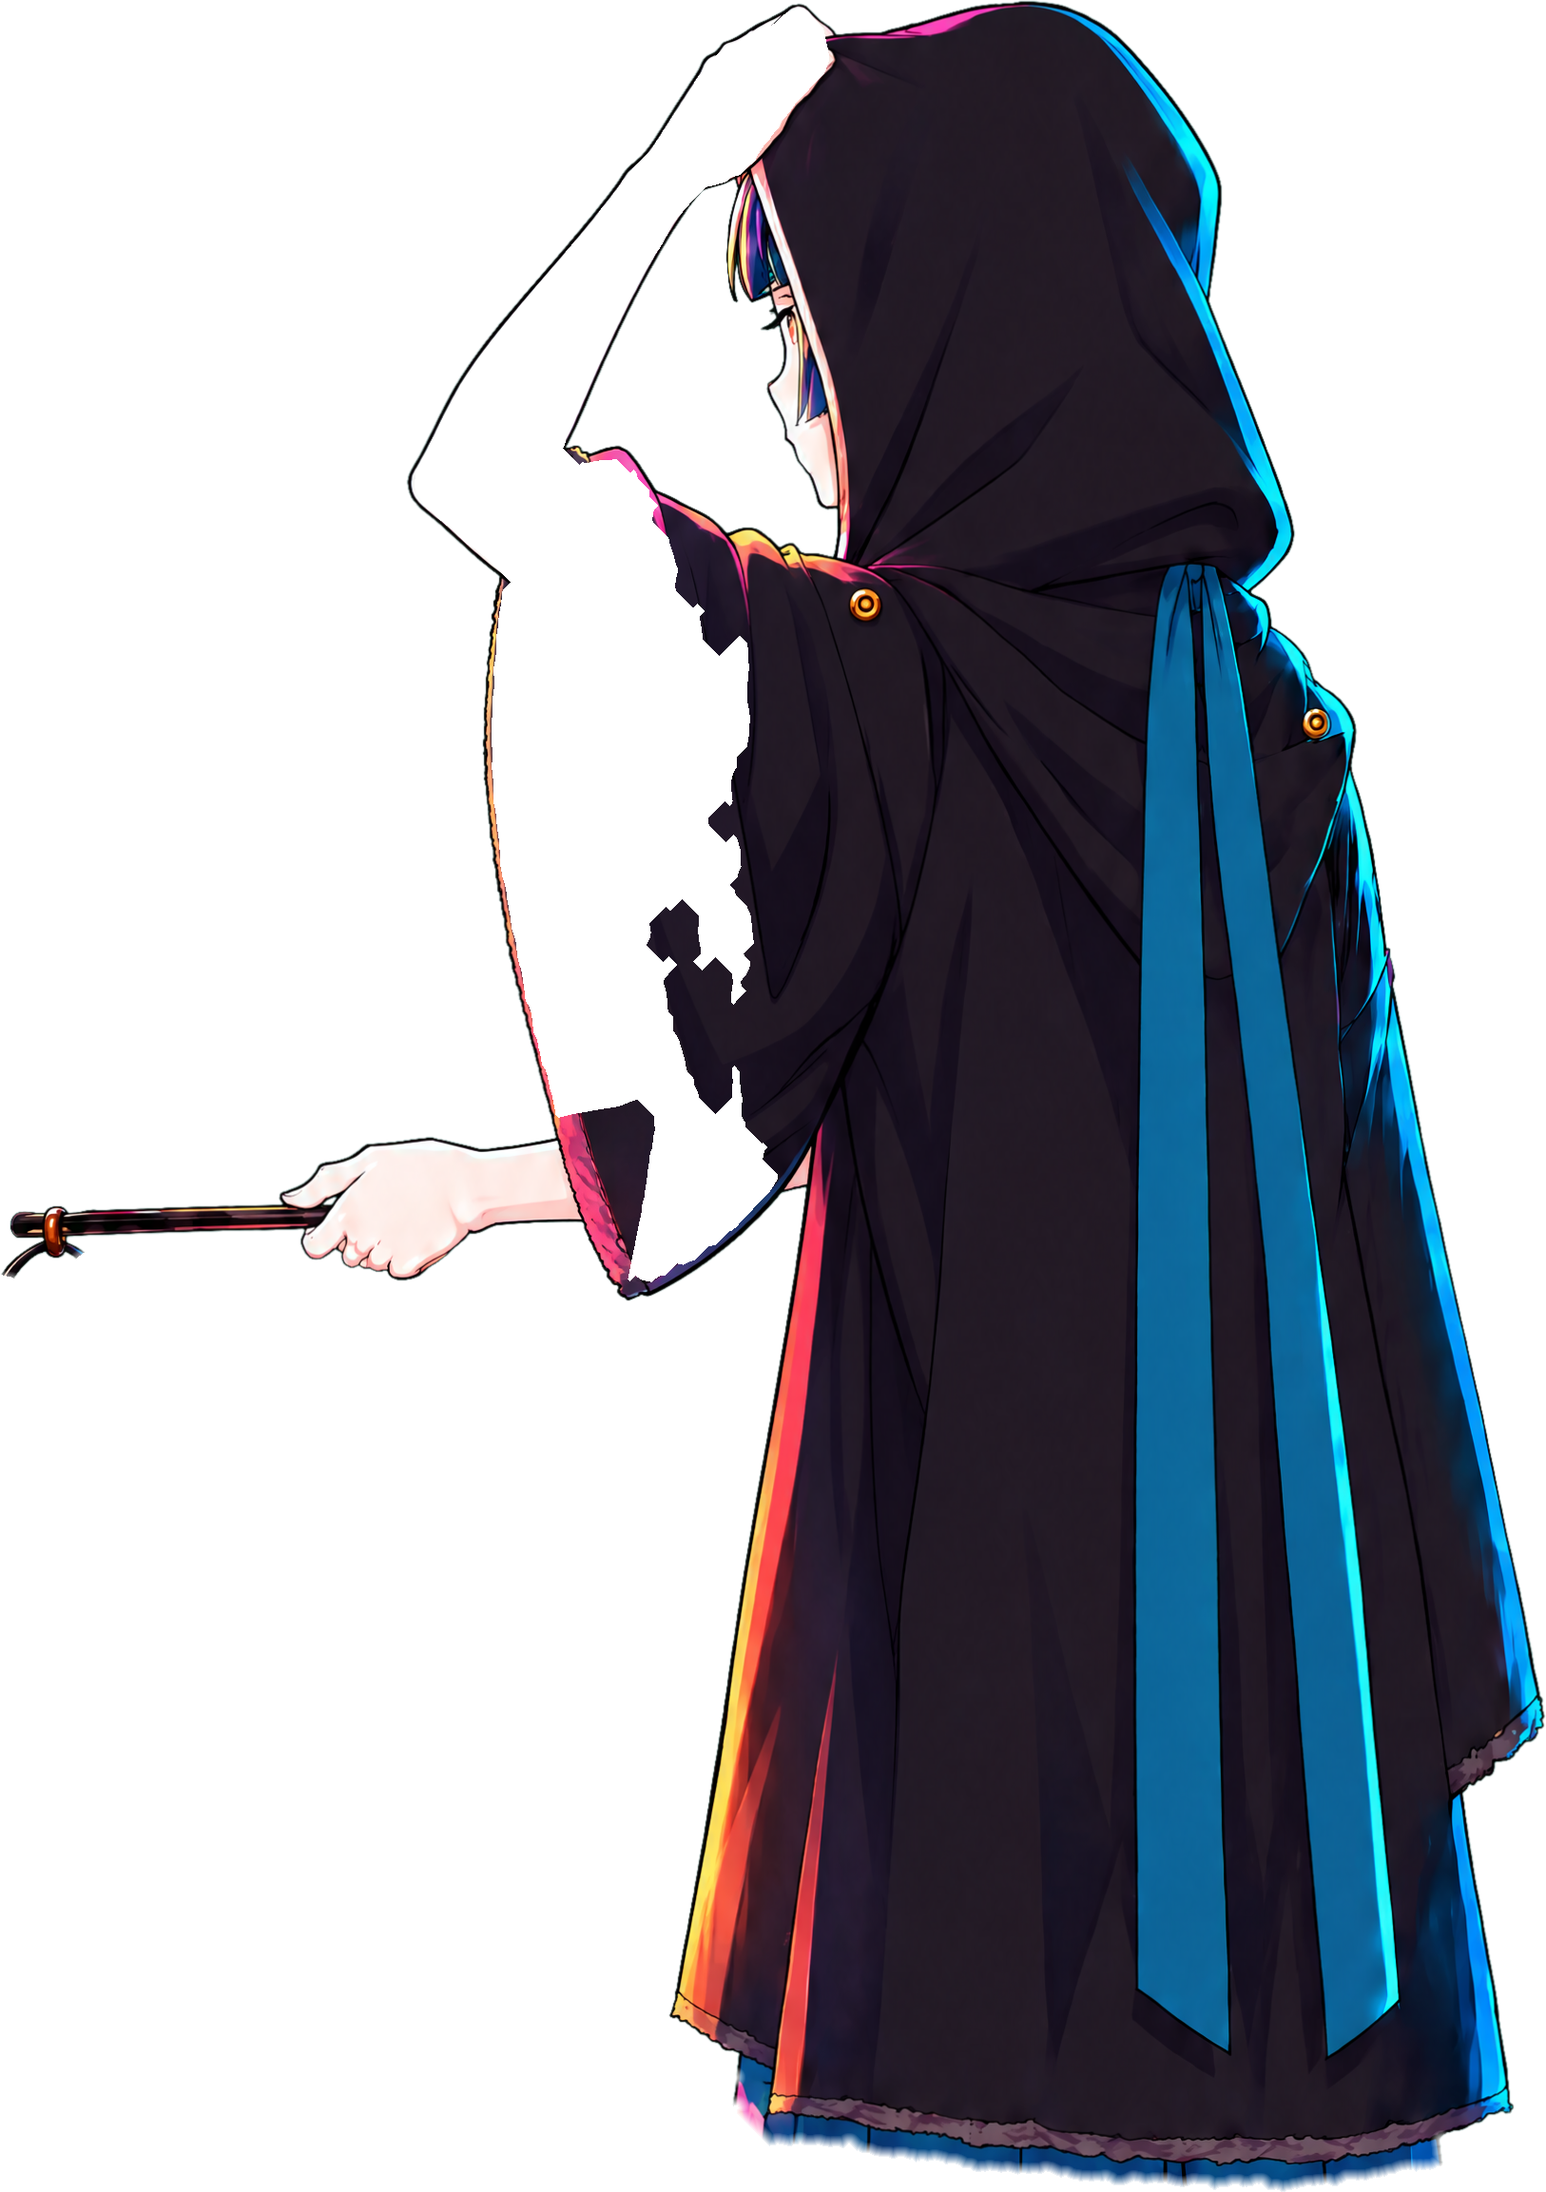
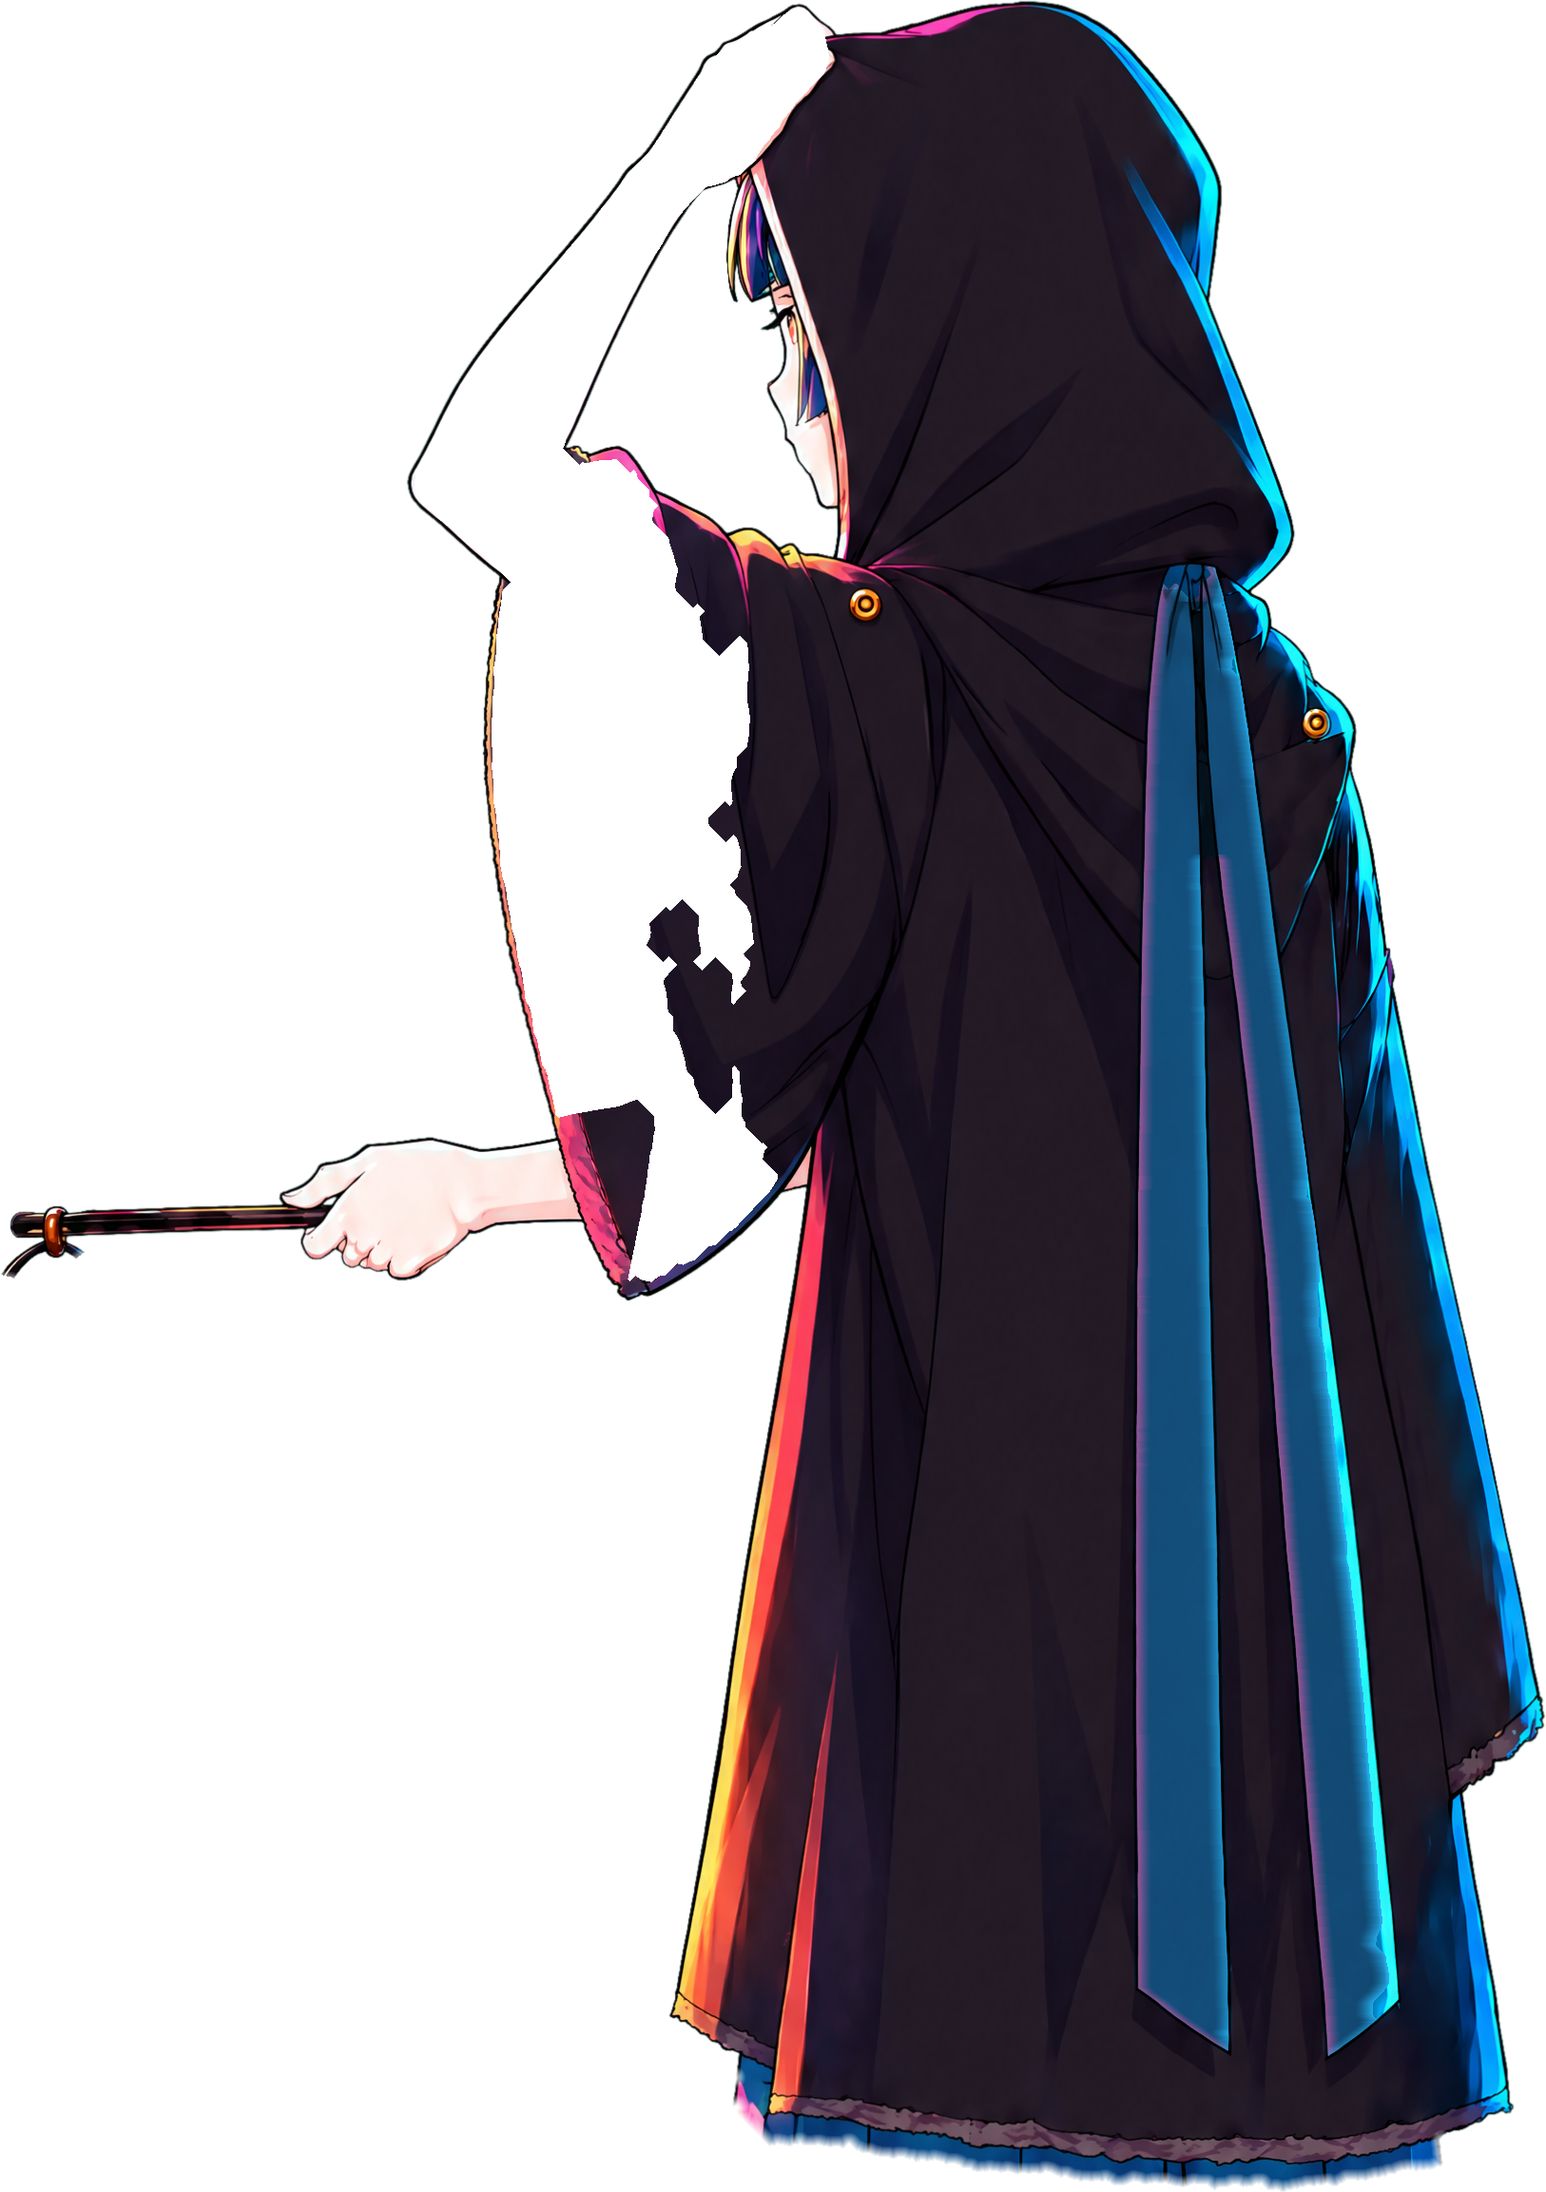
Fable's room ending, Fable's two fixes: the hit's face turned to us, the ribbon in Ai
- The hit (Fable: "the one face the finale is for"): on the raise the head turns ~15 degrees toward us, as at the push, so the open
  smile and the bright, open eye are seen past the cheek: two drawings, the half turn with the smile opening (198.917) and the full
  turn with the open smile arriving with the lantern on the dash (199.0), held through the freeze; the half turn on the lowering's
  first drawing (200.583), then back to the window with the smile. Two new views (turn_hit, turn_half_hit): the push's turned-head
  drawings with the hit's face pasted in (one GPT Image edit each, registered; build.py hitface).
- The ribbon (Fable: it read as Clawd's cyan): recoloured to Ai, the hakama's indigo a touch deeper, its own shading and line kept
  (every pixel from its luminance), highlights capped below cyan; a pink rim on its left edge (the window's light) and cyan only on
  its right, like the sleeves' rim lights. In the build's ribbon layers, the hood-up view's ribbon and every flattened view
  (build.py ribbon_ai; marked so a rerun never recolours twice). The rest pose differs from the drawing only on the ribbon.
- A fragment of hair SAM gave the second tail (it swung off with the ribbon) goes back to the hair (layers.json).

Changed region(s): [[0.738, 0.2498, 0.8918, 0.9367]]

diff --git a/projects/tsuzuku/src/fableroom.js b/projects/tsuzuku/src/fableroom.js
@@ -236,6 +236,13 @@ const FABLEROOM = (() => {
     if (k < KP + 6) return 'push2';                                  // the hood pulled back, the hair out, the head turning
     if (k < KP + 8) return 'turn';                                   // hood down (188.17), the profile found, the dry half-smile
     if (k < KP + 10) return 'turn_half';                             // back toward the window
+    // the hit (Fable: 'the one face the finale is for'): the head turns ~15 degrees toward us again, two drawings, arriving with the
+    // lantern on the dash, so the open smile and the bright eye are seen past the cheek; held through the freeze; back to the
+    // window on the lowering (the half turn on its first drawing, then the base head with the smile)
+    const kh = sl(EK.hit), kl = sl(EK.lower);
+    if (k === kh - 1) return 'turn_half_hit';
+    if (k >= kh && k < kl) return 'turn_hit';
+    if (k === kl) return 'turn_half_hit';
     return null;
   }
   const clapK = CLAPS.flat().map(sl);                                // (a pat lands on the drawing that holds its time)
@@ -357,6 +364,9 @@ const FABLEROOM = (() => {
   LOOPS.fableroom_end.len = 203;
   LOOPS.fableroom_end_wide = t => { endBg(); label(t, ending(X, Math.max(177.8, t), { x: 1100, y: 1030, s: .8 })); };
   LOOPS.fableroom_end_wide.len = 203;
+  LOOPS.fableroom_end_id = t => { X.setTransform(1, 0, 0, 1, 0, 0); X.fillStyle = '#000'; X.fillRect(0, 0, W, H); window.RIG_IDPASS = true;
+    try { ending(X, Math.max(177.8, t), FIN, { figureOnly: true }); } finally { window.RIG_IDPASS = false; } };   // (debug: the ID pass)
+  LOOPS.fableroom_end_id.len = 203;
   LOOPS.fableroom_end_why = t => { endBg(); label(t, ending(X, Math.max(177.8, t), { x: 1768, y: 1649, s: 1.275 })); };   // (the 'why' two-shot's T)
   LOOPS.fableroom_end_why.len = 203;
   LOOPS.fableroom_end_key = t => { X.setTransform(1, 0, 0, 1, 0, 0); X.fillStyle = '#00ff00'; X.fillRect(0, 0, W, H); ending(X, Math.max(177.8, t), { x: 1100, y: 1030, s: .8 }, { figureOnly: true }); };

diff --git a/projects/tsuzuku/rig/fable_3q/build.py b/projects/tsuzuku/rig/fable_3q/build.py
@@ -143,7 +143,7 @@ def views(names):
             arm = np.array(Image.open(P('under', 'seg_' + {'push1': 'pushA', 'push2': 'pushB'}[name], 'arm.png'))) > 127   # the raised arm
             zone = va & (ndi.binary_dilation(upper, iterations=30) | (yy < 2600)) & ~lantern & ~ndi.binary_erosion(arm, iterations=3)   # (under the arm's edge: no crack)
             export(name, [('upper', cut(zone))], fig & ~upper)
-        elif name in ('turn', 'turn_half'):              # the head, the hair and ribbon, the hood and neck; the base's arms and jacket stay
+        elif name in ('turn', 'turn_half', 'turn_hit', 'turn_half_hit'):              # the head, the hair and ribbon, the hood and neck; the base's arms and jacket stay
             head = np.zeros(fig.shape, bool)
             for n in HEADS + ['neck', 'hood', 'hair', 'ribbon']: head |= Lb(n)
             arms = ndi.binary_dilation(Lb('sleeve_L') | Lb('hand_L') | Lb('sleeve_R') | Lb('hand_R') | Lb('stick'), iterations=3)
@@ -263,8 +263,128 @@ def hairclone():
     print('hair plate top: cloned', n, 'px')
 
 
+# ---- the ribbon in Ai (Fable, after the rig review: "it reads as Clawd's cyan"): her indigo, the deep blue between her hakama and
+# her hair's shadows, its own shading and line kept (every pixel scaled from its luminance), the cyan only as a rim on its right
+# edge and a pink rim on its left (the window's light), like the sleeves' rim lights. Applied after the build and the views; each
+# file is marked (a PNG text chunk) so a rerun never recolours twice
+# (the hakama's own Ai, a touch deeper; highlights stay indigo, never cyan: first try, the hair's shadow blue, lost it in the hair)
+AI = np.array([20, 80, 126], float); AI_HI = np.array([44, 110, 166], float); L_AI = 85.0
+RIM_R = np.array([40, 190, 255], float); RIM_L = np.array([240, 90, 170], float); RW = 18
+
+
+def edge_dist(m):
+    """per pixel: its distance (px) to the mask's left edge and right edge along the row"""
+    H, W = m.shape; ix = np.broadcast_to(np.arange(W), (H, W))
+    last = np.maximum.accumulate(np.where(~m, ix, -1), axis=1); dl = ix - last
+    nxt = np.minimum.accumulate(np.where(~m, ix, W)[:, ::-1], axis=1)[:, ::-1]; dr = nxt - ix
+    return dl, dr
+
+
+def ai_recolour(img, mask):
+    out = img.copy(); rgb = img[..., :3].astype(float); L = rgb @ [.299, .587, .114]; r = (L / L_AI)[..., None]
+    col = np.where(r <= 1, AI * r, AI + (AI_HI - AI) * np.clip(r - 1, 0, 1))
+    solid = mask & (img[..., 3] > 8); dl, dr = edge_dist(solid)
+    wl = (np.clip(1 - (dl - 1) / RW, 0, 1) ** 1.3 * .8)[..., None]; wr = (np.clip(1 - (dr - 1) / RW, 0, 1) ** 1.3 * .75)[..., None]
+    lit = np.clip((L - 30) / 40, 0, 1)[..., None]                                  # (rims light the cloth, not its drawn lines)
+    col = col * (1 - wl * lit) + RIM_L * wl * lit
+    col = col * (1 - wr * lit) + RIM_R * wr * lit
+    out[mask, :3] = np.clip(col[mask], 0, 255).astype(np.uint8)
+    return out
+
+
+def ribbon_mask(img):
+    """the ribbon's pixels in a flattened view drawing: seeded by its own teal, closed, grown over its lines, never the hair's rim"""
+    a = img.astype(int); rgb = a[..., :3]; L = rgb @ [.299, .587, .114]
+    seed = (np.abs(rgb - [24, 100, 138]).max(2) < 30) & (a[..., 3] > 200)
+    box = np.zeros(seed.shape, bool); box[900:2880, 1330:1840] = True; seed &= box
+    lab, n = ndi.label(seed); sz = ndi.sum(seed, lab, range(1, n + 1)); seed = np.isin(lab, 1 + np.nonzero(sz > 800)[0]) if n else seed
+    m = ndi.binary_fill_holes(ndi.binary_closing(seed, iterations=10))
+    tealish = (rgb[..., 1] > rgb[..., 0] + 25) & (rgb[..., 1] > .55 * rgb[..., 2]) | (L < 60)
+    return ndi.binary_dilation(m, iterations=4) & (a[..., 3] > 8) & tealish & box
+
+
+def ribbon_ai():
+    from PIL import PngImagePlugin
+    def done(p): return Image.open(p).info.get('ai') == '1'
+    def save(p, arr): info = PngImagePlugin.PngInfo(); info.add_text('ai', '1'); Image.fromarray(arr).save(p, pnginfo=info)
+    for n in ('ribbon', 'ribbon_knot'):
+        p = P('mesh', 'build', n + '.png')
+        if done(p): continue
+        im = rgba(p); save(p, ai_recolour(im, im[..., 3] > 0)); print('recoloured', n)
+    # the hair under the tails (from the no-ribbon companion) kept traces of the ribbon's old teal: a ghost where the tails swing
+    # off. Painted out from the strands around them (invented, marked)
+    p = P('mesh', 'build', 'hair.png')
+    if not done(p):
+        import cv2
+        H = rgba(p); IV = np.array(Image.open(P('mesh', 'build', 'hair.inv.png'))) > 127
+        man = json.load(open(P('mesh', 'build', 'manifest.json'))); eh = [l for l in man['layers'] if l['name'] == 'hair'][0]
+        under = np.zeros(H.shape[:2], bool)                                           # (only where the ribbon covers the hair at rest)
+        R0 = np.array(Image.open(P('mesh', 'layers', 'ribbon.png')))[..., 3] > 8
+        under[:] = R0[eh['y']:eh['y'] + eh['h'], eh['x']:eh['x'] + eh['w']]
+        c = H[..., :3].astype(int); t = (c[..., 1] > c[..., 0] + 40) & (c[..., 1] > .62 * c[..., 2]) & (c[..., 1] > 70) & (H[..., 3] > 8)
+        t = ndi.binary_dilation(t, iterations=2) & (H[..., 3] > 8) & ndi.binary_erosion(under, iterations=1)
+        H[..., :3] = np.where(t[..., None], cv2.inpaint(np.ascontiguousarray(H[..., :3]), t.astype(np.uint8), 9, cv2.INPAINT_TELEA), H[..., :3])
+        save(p, H); IV |= t; Image.fromarray((IV * 255).astype(np.uint8)).save(P('mesh', 'build', 'hair.inv.png')); print('hair: ribbon traces painted out', int(t.sum()))
+    p = P('views', 'hoodup', 'ribbon_up.png')
+    if os.path.exists(p) and not done(p): im = rgba(p); save(p, ai_recolour(im, im[..., 3] > 0)); print('recoloured hoodup/ribbon_up')
+    for v in sorted(os.listdir(P('views'))):
+        p = P('views', v, 'upper.png')
+        if not os.path.exists(p) or done(p): continue
+        man = json.load(open(P('views', v, 'manifest.json'))); e = [l for l in man['layers'] if l['name'] == 'upper'][0]
+        im = rgba(p); full = np.zeros((4440, 2160, 4), np.uint8); full[e['y']:e['y'] + e['h'], e['x']:e['x'] + e['w']] = im
+        m = ribbon_mask(full); full = ai_recolour(full, m)
+        save(p, full[e['y']:e['y'] + e['h'], e['x']:e['x'] + e['w']]); print('recoloured', v, 'upper:', int(m.sum()), 'px of ribbon')
+
+
+# ---- the hit's face (Fable, after the rig review: "the one face the finale is for"): the push's turned head (the profile) with the
+# open smile and the bright, open eye; and the half turn with the smile opening, for the in-between. One GPT Image edit of a head crop
+# each (cached in under/_edits_hit), registered on everything but the face, colour-matched, pasted in through a feathered face zone
+HIT = {
+ 'turn_hit': ('turn', "She smiles openly, overjoyed: her lips part in a wide open smile (a glimpse of her upper teeth), her cheek rounds and "
+              "lifts, and her eye is wide open and bright, looking up and to the left at the stage (the iris raised a little). "),
+ 'turn_half_hit': ('turn_half', "She is breaking into an open smile: her lips just parting, her cheek lifting and rounding, her eye opening "
+                   "wide and bright, looking up and to the left at the stage. "),
+}
+HIT_KEEP = ("The head does NOT turn and does not move: the same angle, position and size. Keep EVERYTHING else exactly identical: her "
+            "hair, bangs, the ribbon, her ear, neck and collar, the crisp anime lineart, cel shading, colours and edge lighting. Only the "
+            "face changes as described. Transparent background.")
+
+
+def hitface(names):
+    import subprocess, cv2
+    X0, Y0, NN = 650, 600, 1024; ed = P('under', '_edits_hit'); os.makedirs(ed, exist_ok=True)
+    gl = lambda a: ((a[..., :3].astype(np.float32) @ [.299, .587, .114]) * (a[..., 3] / 255) + 200 * (1 - a[..., 3] / 255)).astype(np.float32)
+    yy, xx = np.mgrid[:NN, :NN]; zone = ((xx - (1130 - X0)) / 165.) ** 2 + ((yy - (1150 - Y0)) / 185.) ** 2 <= 1
+    for name in names:
+        src, prompt = HIT[name]; V = rgba(P('under', src + '_al.png')); crop = V[Y0:Y0 + NN, X0:X0 + NN].copy()
+        cp = os.path.join(ed, f'_crop_{name}.png'); Image.fromarray(crop).save(cp); ep = os.path.join(ed, name + '.png')
+        if not os.path.exists(ep):
+            subprocess.run([os.path.join(P('..', '..', '..', '..'), '.venv', 'bin', 'python'), os.path.join(P('..', '..', '..', '..'), 'tools', 'gptimage.py'),
+                            'Edit this character close-up, seen in side profile. ' + prompt + HIT_KEEP, ep, '--size', f'{NN}x{NN}', '--quality', 'high',
+                            '--transparent', '--ref', cp], check=True)
+        e = np.array(Image.open(ep).convert('RGBA').resize((NN, NN), Image.LANCZOS))
+        m = (~ndi.binary_dilation(zone, iterations=30) & (crop[..., 3] > 200)).astype(np.uint8); w = np.eye(2, 3, dtype=np.float32)
+        for sc in (.25, .5, 1.):
+            A = cv2.GaussianBlur(cv2.resize(gl(crop), None, fx=sc, fy=sc), (0, 0), 1.2); Bv = cv2.GaussianBlur(cv2.resize(gl(e), None, fx=sc, fy=sc), (0, 0), 1.2)
+            w2 = w.copy(); w2[:, 2] *= sc
+            _, w2 = cv2.findTransformECC(A, Bv, w2, cv2.MOTION_AFFINE, (cv2.TERM_CRITERIA_EPS | cv2.TERM_CRITERIA_COUNT, 200, 1e-6), cv2.resize(m, None, fx=sc, fy=sc, interpolation=cv2.INTER_NEAREST), 5)
+            w = w2.copy(); w[:, 2] /= sc
+        al = cv2.warpAffine(e, w, (NN, NN), flags=cv2.INTER_LINEAR | cv2.WARP_INVERSE_MAP); res = float(np.abs(gl(al) - gl(crop))[m.astype(bool)].mean())
+        k = m.astype(bool) & (al[..., 3] > 200)
+        for c in range(3):
+            sa, sb = al[k, c].astype(float), crop[k, c].astype(float)
+            al[..., c] = np.clip((al[..., c] - sa.mean()) / (sa.std() + 1e-6) * sb.std() + sb.mean(), 0, 255).astype(np.uint8)
+        f = np.clip(ndi.distance_transform_edt(zone) / 14, 0, 1)[..., None]
+        pa = lambda q: np.dstack([q[..., :3].astype(float) * (q[..., 3:] / 255), q[..., 3:].astype(float)])
+        mix = pa(al) * f + pa(crop) * (1 - f); A2 = mix[..., 3:]; out = np.dstack([np.where(A2 > 0, mix[..., :3] / np.maximum(A2, 1e-6) * 255, 0), A2])
+        V2 = V.copy(); V2[Y0:Y0 + NN, X0:X0 + NN] = np.clip(out, 0, 255).astype(np.uint8)
+        Image.fromarray(V2).save(P('under', name + '_al.png')); print(f'{name}: registered, residual {res:.1f}')
+
+
 if __name__ == '__main__':
     a = sys.argv[1:]
+    if a[0] == 'hitface': hitface(a[1:] or list(HIT))
+    if a[0] == 'ribbon_ai': ribbon_ai()
     if a[0] == 'hairclone': hairclone()
     if a[0] == 'fix_sweep': fix_sweep()
     if a[0] == 'extend_down': extend_down()
